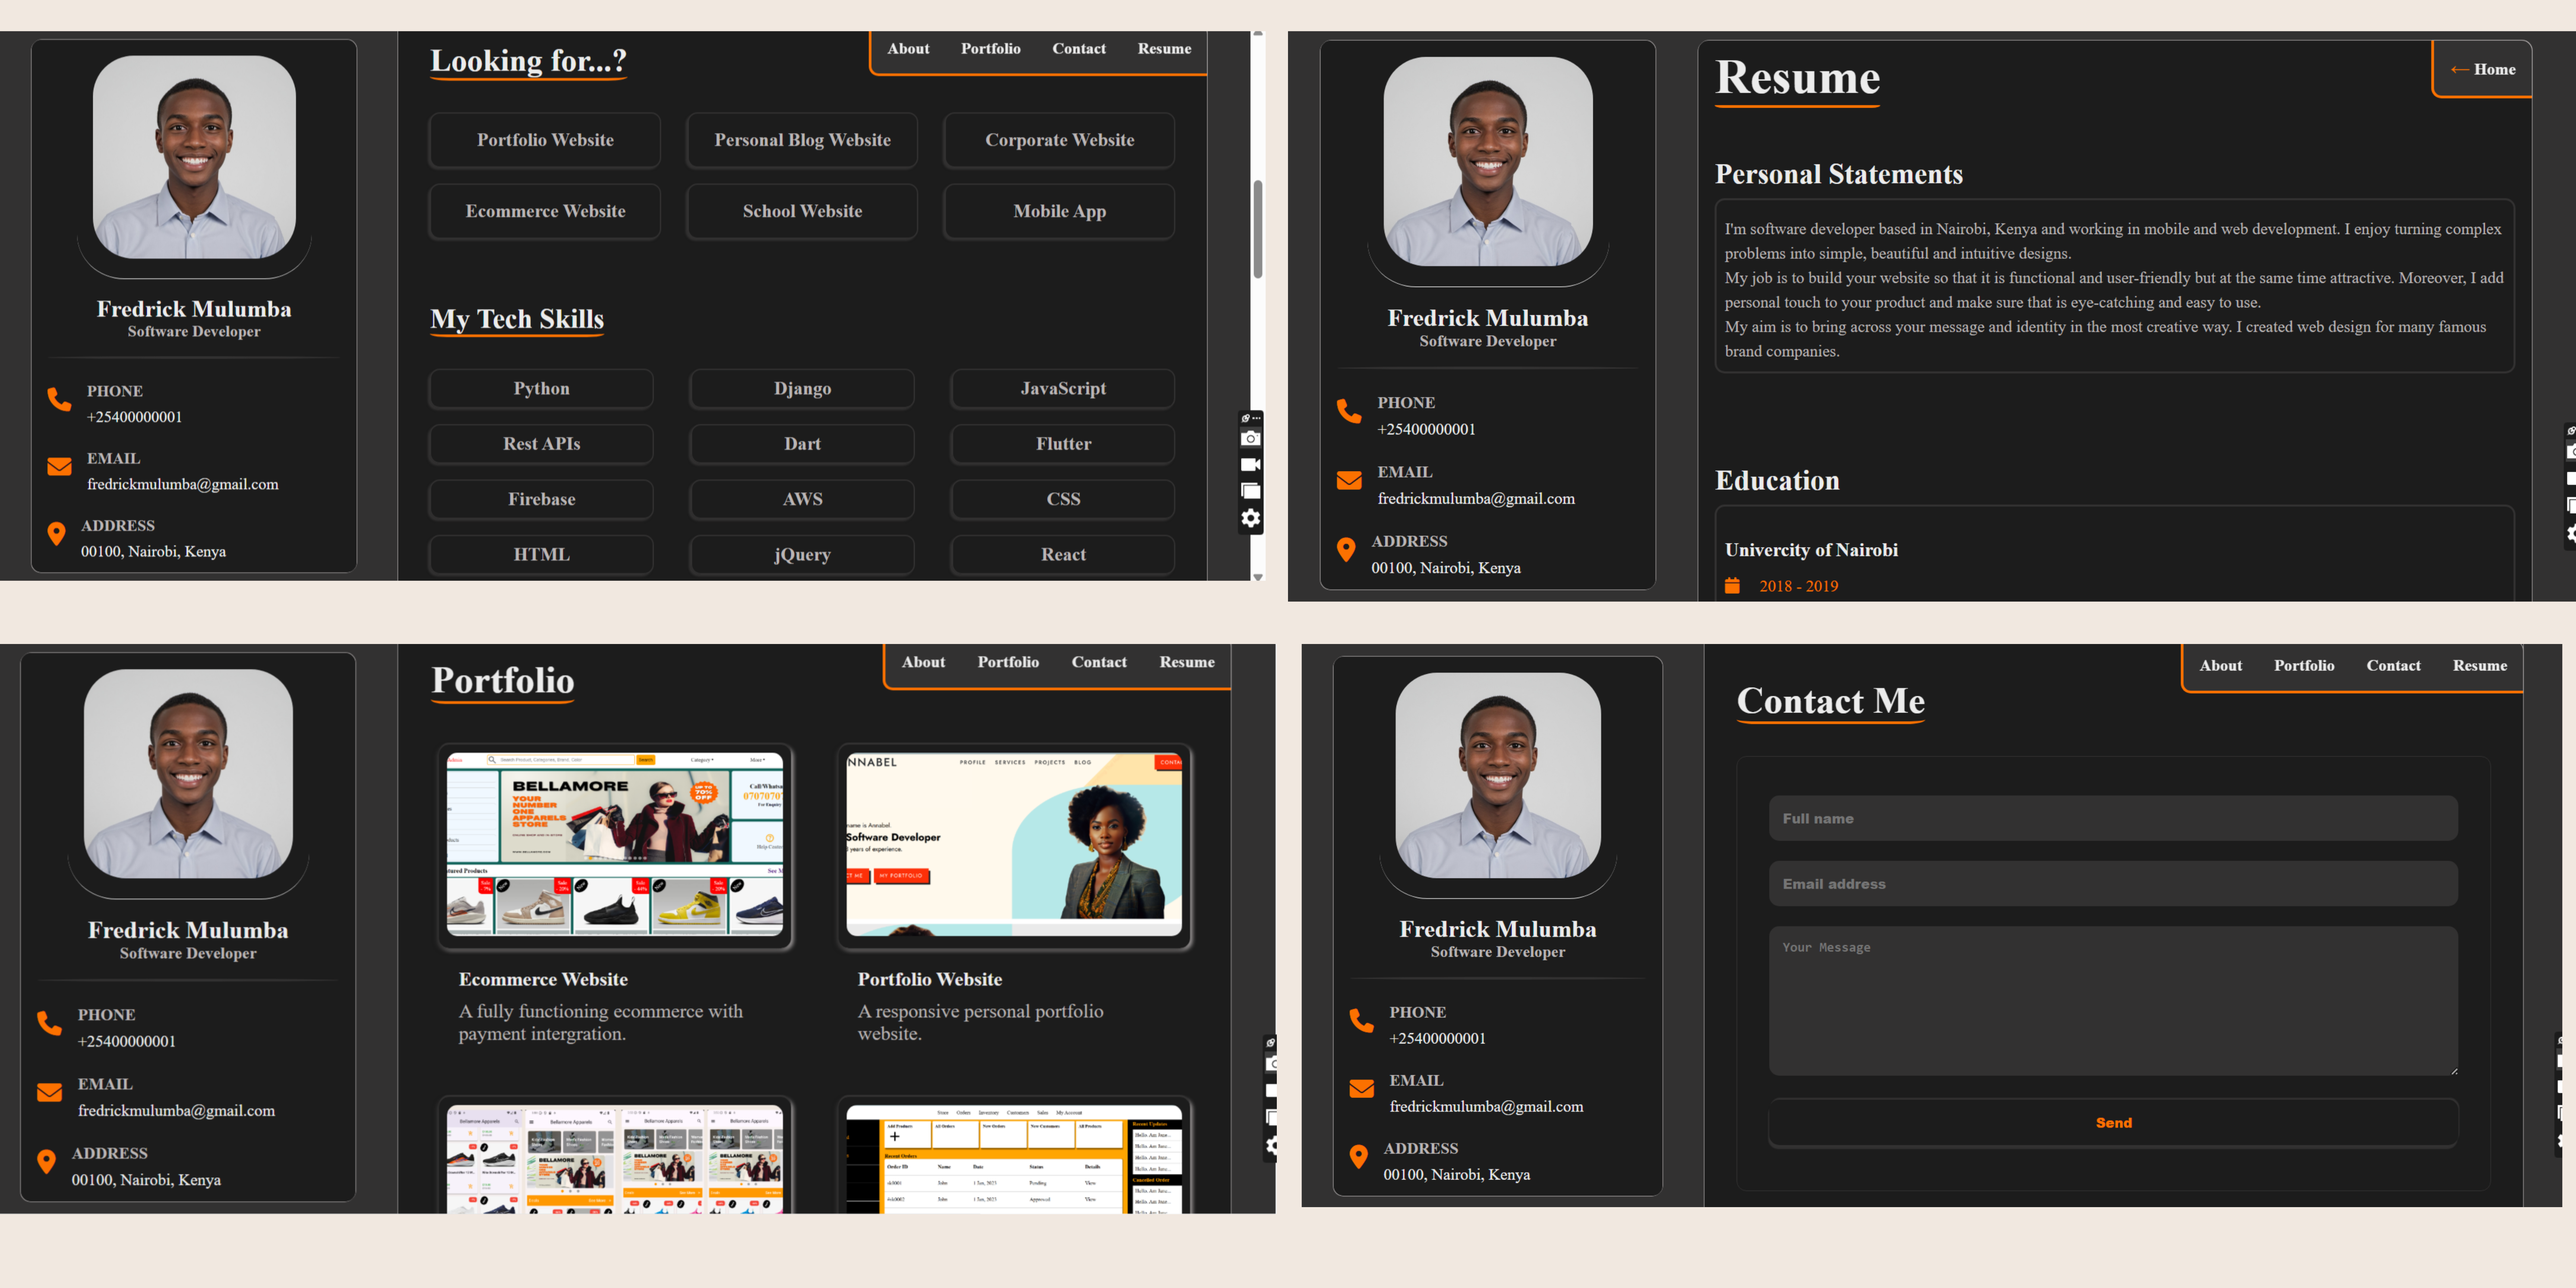
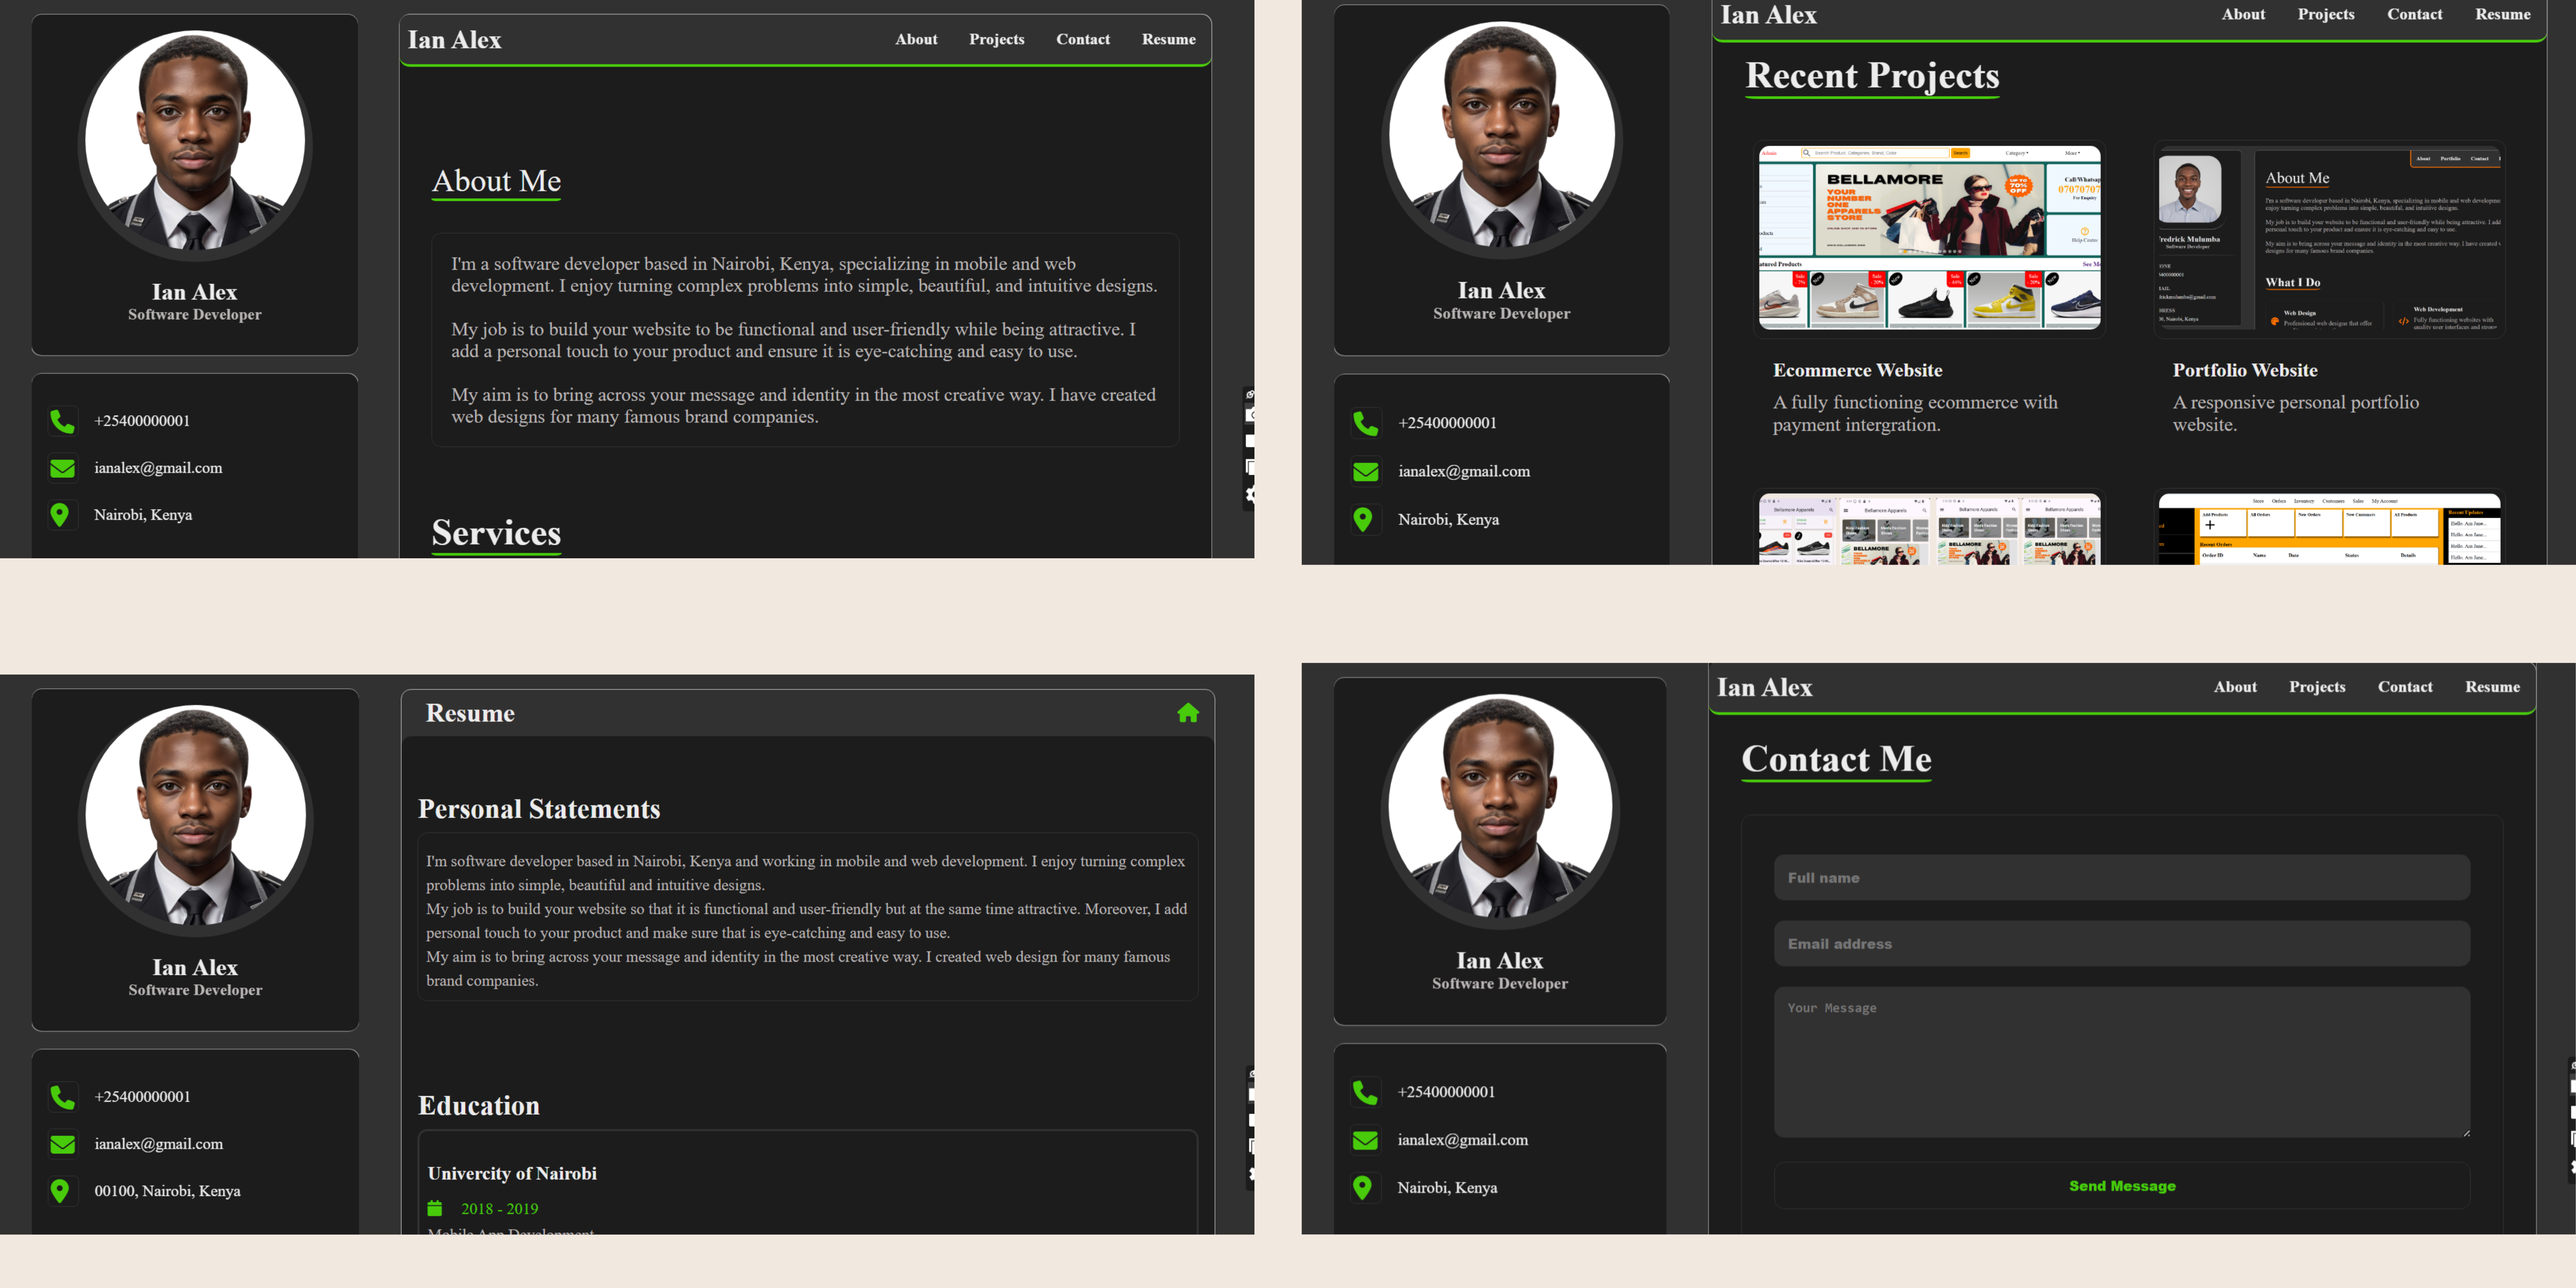
modified:   desktop_view.png 	new file:   images/portfolio2.png 	modified:   index.html 	new file:   mobile_view.png 	deleted:    moblie_view.png 	modified:   resume.html

diff --git a/index.html b/index.html
@@ -282,9 +282,9 @@
                             <!-- Portfolio item 2 -->
                             <div class="portfolio">
                               <div class="portfolio-image">
-                                <img src="images/portfolio.png" alt="Portfolio">
+                                <img src="images/portfolio2.png" alt="Portfolio">
                                 <div class="portfolio-layer">
-                                  <h4><a href="https://annabelnatea.up.railway.app/" target="_blank">View &rarr;</a></h4>
+                                  <h4><a href="https://fredrickmulumba.up.railway.app/" target="_blank">View &rarr;</a></h4>
                                 </div>
                               </div>
                               <div class="portfolio-texts">
@@ -340,7 +340,7 @@
 
                               <textarea name="message" placeholder="Your Message" rows="8" cols="100"></textarea>
 
-                              <input type="submit" value="Send">
+                              <input type="submit" value="Send Message">
                             </form>
                           </div>
                         </div>

diff --git a/resume.html b/resume.html
@@ -50,7 +50,6 @@
                   <i class="fa-solid fa-phone"></i>
                 </div>
                 <div class="info">
-                  <h4 class="info-title">PHONE</h4>
                   <p>+25400000001</p>
                 </div>
               </div>
@@ -60,7 +59,6 @@
                   <i class="fa-solid fa-envelope"></i>
                 </div>
                 <div class="info">
-                  <h4 class="info-title">EMAIL</h4>
                   <p>ianalex@gmail.com</p>
                 </div>
               </div>
@@ -70,7 +68,6 @@
                   <i class="fa-solid fa-location-dot"></i>
                 </div>
                 <div class="info">
-                  <h4 class="info-title">ADDRESS</h4>
                   <p>00100, Nairobi, Kenya</p>
                 </div>
               </div>
